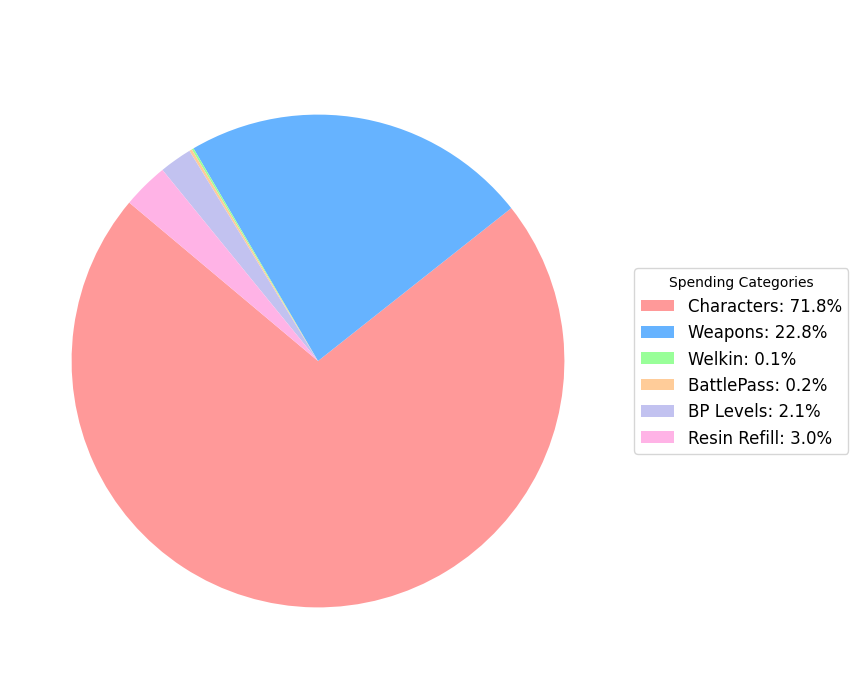
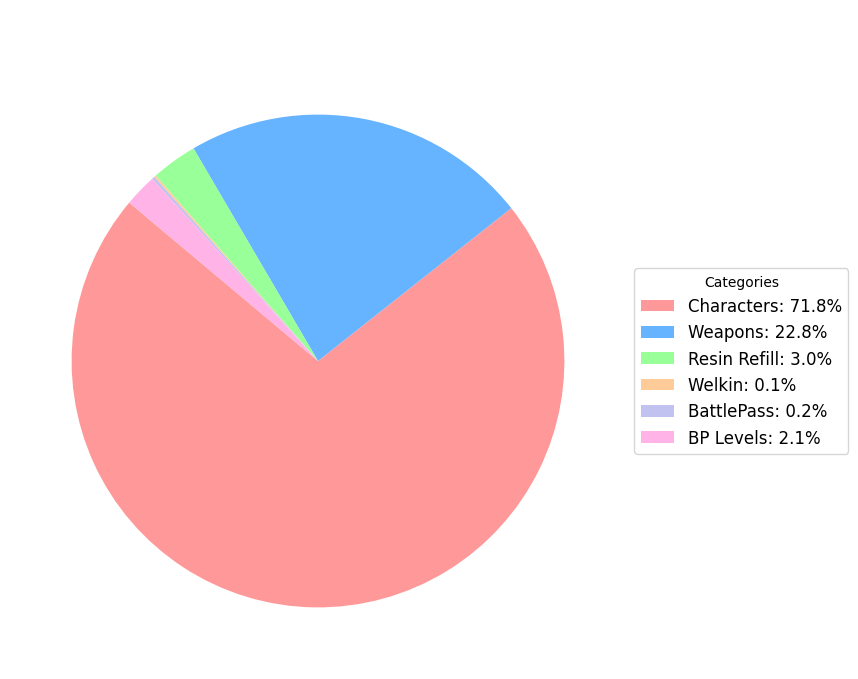
add spend table to auto readme

diff --git a/update_readme.py b/update_readme.py
@@ -66,31 +66,21 @@ generate_pie_chart(data)
 markdown = f"""# Genshin Impact - Whale Calculator
 This is a Calculator what is a maximu for GI whale spend on game with worst luck. 
 
-## Spend Distribution
+## Pie Spend Distribution
 
 ![Whale Chart]({SPEND_CHARD_NAME})
 
-"""
-
-"""
-
-## Total Spend
-
-all C6 characters   {data["Characters"]["spend"]:.2f} usd
-
-all R5 weapons      {data["Weapons"]["spend"]:.2f} usd
-
-Welkin Moon         {data["Welkin_Moon"]["spend"]:.2f} usd
-
-Battle Pass         {data["BP"]["spend"]:.2f} usd
-
-Battle Pass levl up {data["BP_LV_UP"]["spend"]:.2f} usd
-
-Refil Resin         {data["resin_refill"]["spend"]:.2f} usd
-
----
-
-total               {data["total_spend"]:.2f} usd
+## Table Spend Distribution
+| Type | Spend | 
+| :--- | :--- |
+| all C6 characters    | {data["Characters"]["spend"]:.2f} usd |
+| all R5 weapons       | {data["Weapons"]["spend"]:.2f} usd |
+| Welkin Moon          | {data["Welkin_Moon"]["spend"]:.2f} usd |
+| Battle Pass          | {data["BP"]["spend"]:.2f} usd |
+| Battle Pass levl up  | {data["BP_LV_UP"]["spend"]:.2f} usd |
+| Refil Resin          | {data["resin_refill"]["spend"]:.2f} usd |
+| | |
+| Totalz                 | {data["total_spend"]:.2f} usd |
 """
 
 write_readme(markdown)

diff --git a/README.md b/README.md
@@ -1,7 +1,18 @@
 # Genshin Impact - Whale Calculator
 This is a Calculator what is a maximu for GI whale spend on game with worst luck. 
 
-## Spend Distribution
+## Pie Spend Distribution
 
 ![Whale Chart](spend_chart.png)
 
+## Table Spend Distribution
+| Type | Spend | 
+| :--- | :--- |
+| all C6 characters    | 190002.21 usd |
+| all R5 weapons       | 60318.16 usd |
+| Welkin Moon          | 334.33 usd |
+| Battle Pass          | 479.52 usd |
+| Battle Pass levl up  | 5654.83 usd |
+| Refil Resin          | 7979.59 usd |
+| | |
+| Totalz                 | 264768.64 usd |
